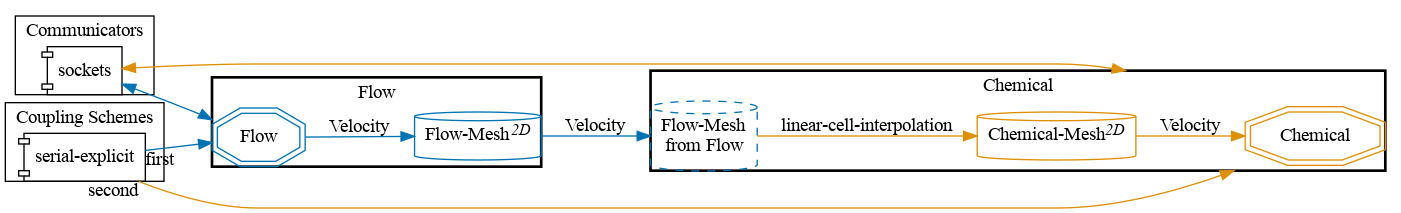
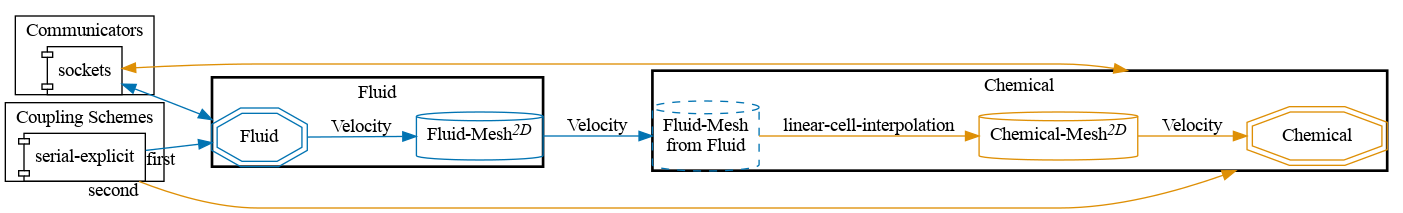
Add channel transport tutorials to the system tests (#816)

diff --git a/changelog-entries/816.md b/changelog-entries/816.md
@@ -1,0 +1,1 @@
+- Renamed the `Flow` participant to `Fluid` in the channel-transport-reaction tutorial [#816](https://github.com/precice/tutorials/pull/816)
